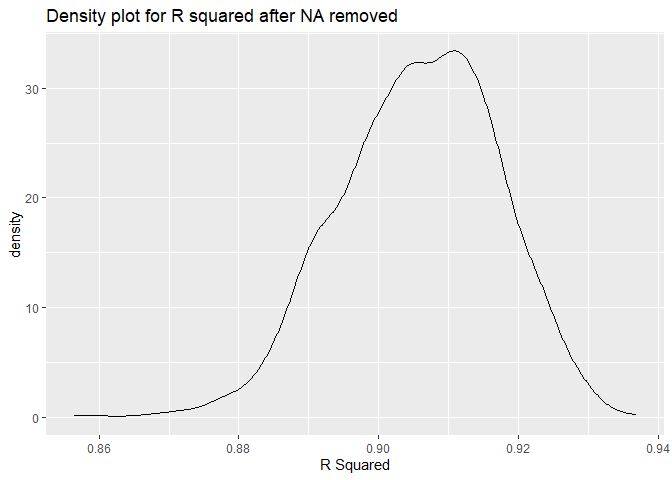
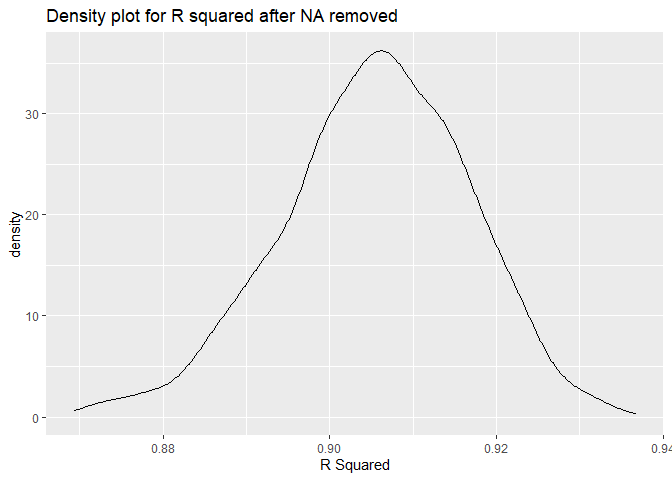
Add some code comments, final version

diff --git a/p8105_hw6_cp3384.md b/p8105_hw6_cp3384.md
@@ -1,7 +1,7 @@
 p8105_hw6_cp3384
 ================
 Chenshuo Pan
-2023-12-01
+2023-12-02
 
 # Question1
 
@@ -154,7 +154,8 @@ weather_model <-
     )%>%
   select(-strap,-models)
 
-
+#Find the product of beta1 and beta2 for 5000 bootstraps
+#and mutate a variable presents log beta
 log_beta_product <-
   weather_model%>%
   unnest(results)%>%
@@ -163,7 +164,7 @@ log_beta_product <-
   summarize(beta_hat = prod(estimate))%>%
   mutate(logbeta = log(beta_hat))
 
-
+#Get the Rsquared
 model_rsquare <-
   weather_model%>%
   unnest(glance)%>%
@@ -171,42 +172,50 @@ model_rsquare <-
 ```
 
 ``` r
+#delete all NA in log beta
 log_beta_product_rmNA <- na.omit(log_beta_product)
 
+#join the two tables to keep those rows not NA
 beta_R2_rmNA <- left_join(log_beta_product_rmNA,model_rsquare,by = ".id")
 ```
 
 ``` r
+#show 95% interval of log beta product
 quantile(pull(beta_R2_rmNA,logbeta),prob = c(0.025, 0.975),na.rm = TRUE)%>%
   knitr::kable()
 ```
 
 |       |         x |
 |:------|----------:|
-| 2.5%  | -9.057279 |
-| 97.5% | -4.566974 |
+| 2.5%  | -9.202135 |
+| 97.5% | -4.594695 |
 
 ``` r
+#show 95% interval of  R squared after NA deletion
 quantile(pull(beta_R2_rmNA,r.squared),prob = c(0.025, 0.975),na.rm = TRUE)%>%
   knitr::kable()
 ```
 
 |       |         x |
 |:------|----------:|
-| 2.5%  | 0.8834052 |
-| 97.5% | 0.9256546 |
+| 2.5%  | 0.8819804 |
+| 97.5% | 0.9257604 |
 
 ``` r
+#show 95% interval of  R squared without NA deletion
+
 quantile(pull(model_rsquare,r.squared),prob = c(0.025, 0.975),na.rm = TRUE)%>%
   knitr::kable()
 ```
 
 |       |         x |
 |:------|----------:|
-| 2.5%  | 0.8888921 |
-| 97.5% | 0.9404031 |
+| 2.5%  | 0.8878449 |
+| 97.5% | 0.9407673 |
 
 ``` r
+# Density plot for log(β1 * β2) after NA removed
+
 beta_R2_rmNA%>%
   ggplot(aes(x = logbeta))+
   geom_density()+
@@ -222,6 +231,7 @@ the same time, 95% of the intervals also prove this. The most densely
 distributed area is around -5.5，
 
 ``` r
+#Density plot for R squared after NA removed
 beta_R2_rmNA%>%
   ggplot(aes(x = r.squared))+
   geom_density()+
@@ -237,6 +247,7 @@ scale, basically all results are acceptable for the R2 standard, which
 means that the model we use is appropriate.
 
 ``` r
+#Density plot for R squared without any data deletion
 model_rsquare%>%
   ggplot(aes(x = r.squared))+
   geom_density()+
@@ -260,24 +271,24 @@ to factor where appropriate, check for missing data, etc.).**
 ``` r
 birthweight <- read_csv("data/birthweight.csv")%>%
   janitor::clean_names()%>%
-  mutate(babysex = case_when(babysex == 1 ~ "male",
-                             TRUE ~ "female"),
+  mutate(babysex = factor(case_when(babysex == 1 ~ "male",
+                             TRUE ~ "female")),
          
-         frace = case_when(frace == 1 ~ "White",
+         frace = factor(case_when(frace == 1 ~ "White",
                            frace == 2 ~ "Black",
                            frace == 3 ~ "Asian",
                            frace == 4 ~ "Puerto Rican",
                            frace == 8 ~ "Other",
-                           frace == 9 ~ "Unknown"),
+                           frace == 9 ~ "Unknown")),
          
-         malform = case_when(malform == 0 ~ "absent",
-                             TRUE ~ "present"),
+         malform = factor(case_when(malform == 0 ~ "absent",
+                             TRUE ~ "present")),
          
-         mrace = case_when(mrace == 1 ~ "White",
+         mrace = factor(case_when(mrace == 1 ~ "White",
                            mrace == 2 ~ "Black",
                            mrace == 3 ~ "Asian",
                            mrace == 4 ~ "Puerto Rican",
-                           mrace == 8 ~ "Other"))%>%
+                           mrace == 8 ~ "Other")))%>%
   mutate(frace = fct_infreq(frace),
          mrace = fct_infreq(mrace))
 ```
@@ -290,6 +301,16 @@ birthweight <- read_csv("data/birthweight.csv")%>%
     ## ℹ Use `spec()` to retrieve the full column specification for this data.
     ## ℹ Specify the column types or set `show_col_types = FALSE` to quiet this message.
 
+``` r
+# check for missing data
+sum(is.na(birthweight))
+```
+
+    ## [1] 0
+
+There are no missing data in this dataset, and for each categorical
+variable, I numerically converted them into meaningful factors
+
 **Propose a regression model for birthweight. This model may be based on
 a hypothesized structure for the factors that underly birthweight, on a
 data-driven model-building process, or a combination of the two.
@@ -298,8 +319,9 @@ against fitted values – use add_predictions and add_residuals in making
 this plot.**
 
 ``` r
+# propose a full model
 hypo_model = lm(bwt~ ., data = birthweight)
-
+# do stepwise regression
 bothward_model <- step(hypo_model, direction = "both",trace = 0)
 summary(bothward_model)
 ```
@@ -336,10 +358,13 @@ summary(bothward_model)
     ## Multiple R-squared:  0.7181, Adjusted R-squared:  0.7173 
     ## F-statistic: 848.1 on 13 and 4328 DF,  p-value: < 2.2e-16
 
-I use Stepwise Regression to help me get a model. on the basis of,I only
-keep those very significant predictors
+I first use a complete model, that is, a model that includes all main
+variables. Then I use Stepwise Regression with both directions to help
+me get a model. on the basis of,I only keep those very significant
+predictors.
 
 ``` r
+#Retain only significant variables in the above model
 proposed_model = lm(bwt ~  babysex + blength + delwt + gaweeks + mheight + mrace + ppwt +smoken, data = birthweight)
 
 summary(proposed_model)
@@ -375,6 +400,8 @@ summary(proposed_model)
     ## F-statistic: 715.7 on 10 and 4331 DF,  p-value: < 2.2e-16
 
 ``` r
+#Build predicted values and residual plots through the model I proposed, and get the fitting curve through smooth
+
 birthweight%>%
   add_predictions(proposed_model)%>%
   add_residuals(proposed_model)%>%
@@ -385,7 +412,7 @@ birthweight%>%
 
     ## `geom_smooth()` using formula = 'y ~ x'
 
-![](p8105_hw6_cp3384_files/figure-gfm/unnamed-chunk-17-1.png)<!-- -->
+![](p8105_hw6_cp3384_files/figure-gfm/unnamed-chunk-18-1.png)<!-- -->
 
 As you can see, my fitted curve `smooth()` basically floats around 0,
 which proves that there is no obvious pattern for different predicted
@@ -400,18 +427,20 @@ the cross-validated prediction error; use crossv_mc and functions in
 purrr as appropriate.**
 
 ``` r
+# build main model
 main_model <-lm(bwt ~ blength +gaweeks, data = birthweight)
-
+# build model with interaction
 inter_model <-lm(bwt ~ bhead + blength +babysex + babysex*bhead*blength, data = birthweight)
 ```
 
 ``` r
+# separate the test set and training set for cross validation
 cv_df = 
   crossv_mc(birthweight, 100) %>%
   mutate(
     train = map(train, as_tibble),
     test = map(test, as_tibble))
-
+# do calculation for mse of each set
 cv_df = 
   cv_df %>%
   mutate(
@@ -436,7 +465,7 @@ cv_df %>%
   labs(title =" violin plot of distribution of RMSE values for each candidate model. ")
 ```
 
-![](p8105_hw6_cp3384_files/figure-gfm/unnamed-chunk-19-1.png)<!-- -->
+![](p8105_hw6_cp3384_files/figure-gfm/unnamed-chunk-20-1.png)<!-- -->
 
 The plot above shows the distribution of RMSE values for each candidate
 model.
